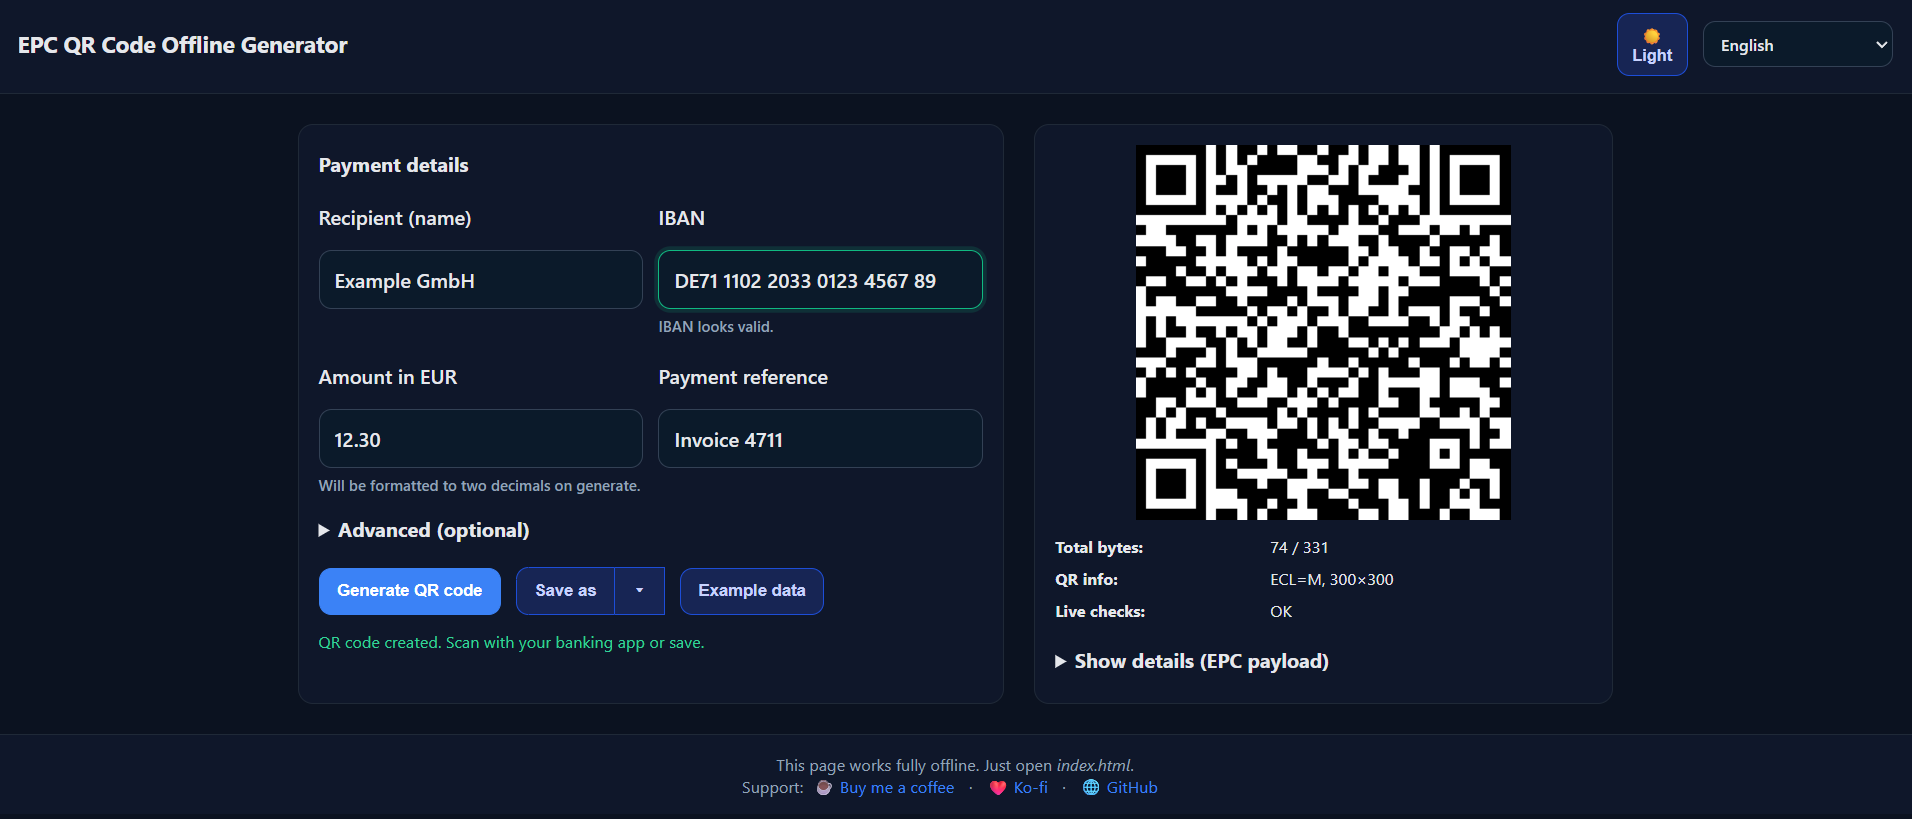
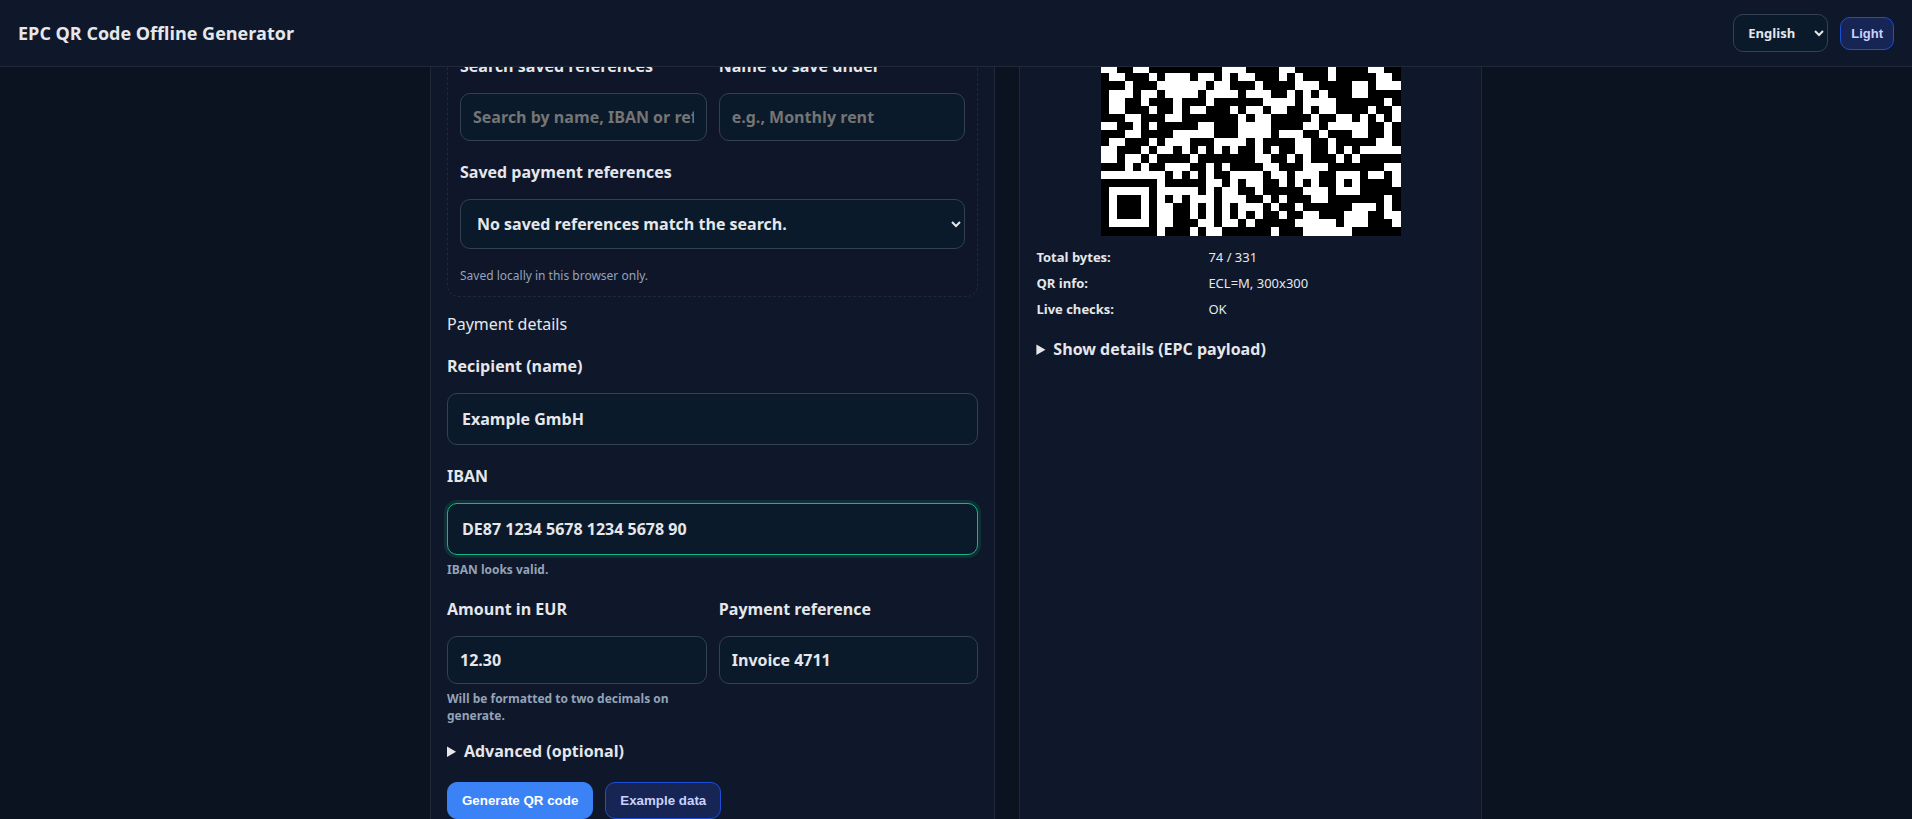
Use clearly fake DE87 1234… test IBANs in demos
Replace Wikipedia/example IBANs in placeholders, sample data, and
README screenshots with an obviously synthetic but Mod97-valid test IBAN.

diff --git a/assets/app.js b/assets/app.js
@@ -59,8 +59,8 @@ function ensureI18N(){
       tooltip_struct:"Use RF creditor reference (ISO 11649). If you set this, leave Payment reference empty.",
       tooltip_purpose:"Standard code like GDDS (goods), SALA (salary), CHAR (charity). Optional.",
       totalBytes:"Total bytes:", qrInfo:"QR info:", details:"Show details (EPC payload)", lf:"Line breaks are shown as \\n.",
-      placeholders:{ name:"e.g., Example GmbH", iban:"DE89 3704 0044 0532 0130 00", amount:"12.34", unstruct:"Invoice 4711, Customer 123", struct:"e.g., RF18XXXX", purpose:"e.g., GDDS", bic:"usually empty in EU", b2o:"optional" },
-      exdata:{ name:"Example GmbH", iban:"DE71 1102 2033 0123 4567 89", amount:"12.30", unstruct:"Invoice 4711", struct:"", purpose:"", bic:"", b2o:"" },
+      placeholders:{ name:"e.g., Example GmbH", iban:"DE87 1234 5678 1234 5678 90", amount:"12.34", unstruct:"Invoice 4711, Customer 123", struct:"e.g., RF18XXXX", purpose:"e.g., GDDS", bic:"usually empty in EU", b2o:"optional" },
+      exdata:{ name:"Example GmbH", iban:"DE87 1234 5678 1234 5678 90", amount:"12.30", unstruct:"Invoice 4711", struct:"", purpose:"", bic:"", b2o:"" },
       status_ok:"QR code created. Scan with your banking app.", status_prefill:"Example data filled. Click 'Generate QR code'.",
       err_name:"Recipient is required.", err_iban:"IBAN is invalid.", err_purpose:"Purpose code must be 1-4 alphanumeric characters.", err_bic:"Invalid BIC format.", err_amount_min:"Invalid amount: at least 0.01 EUR.",
       err_len:(b)=>`Text too long: payload exceeds 331 bytes (${b}). Please shorten.`, err_qrlib:"QR library not loaded. Ensure assets/qrcode.min.js exists and is loaded before app.js.",

diff --git a/index.html b/index.html
@@ -127,7 +127,7 @@
 
         <label id="l_iban">
           <div class="label-row"><span class="title">IBAN</span></div>
-          <input id="iban" maxlength="42" placeholder="DE89 3704 0044 0532 0130 00"
+          <input id="iban" maxlength="42" placeholder="DE87 1234 5678 1234 5678 90"
                  pattern="^[A-Z]{2}[0-9]{2}[A-Z0-9 ]{0,30}$" title="Starts with country code + 2 digits; letters/digits, spaces allowed"
                  autocapitalize="characters" inputmode="text" aria-describedby="ibanHint" />
           <span class="hint" id="ibanHint"></span>

diff --git a/assets/i18n-core.js b/assets/i18n-core.js
@@ -64,7 +64,7 @@ window.I18N = {
 
     placeholders: {
       name: "e.g., Example GmbH",
-      iban: "DE89 3704 0044 0532 0130 00",
+      iban: "DE87 1234 5678 1234 5678 90",
       amount: "12.34",
       unstruct: "Invoice 4711, Customer 123",
       struct: "e.g., RF18XXXX",
@@ -74,7 +74,7 @@ window.I18N = {
     },
     exdata: {
       name: "Example GmbH",
-      iban: "DE71 1102 2033 0123 4567 89",
+      iban: "DE87 1234 5678 1234 5678 90",
       amount: "12.30",
       unstruct: "Invoice 4711",
       struct: "",

diff --git a/assets/i18n/de.js b/assets/i18n/de.js
@@ -62,7 +62,7 @@ window.I18N.de = {
 
   placeholders: {
     name: "z. B. Beispiel GmbH",
-    iban: "DE89 3704 0044 0532 0130 00",
+    iban: "DE87 1234 5678 1234 5678 90",
     amount: "12,34",
     unstruct: "Rechnung 4711, Kunde 123",
     struct: "z. B. RF18…",
@@ -72,7 +72,7 @@ window.I18N.de = {
   },
   exdata: {
     name: "Beispiel GmbH",
-    iban: "DE71 1102 2033 0123 4567 89",
+    iban: "DE87 1234 5678 1234 5678 90",
     amount: "12,30",
     unstruct: "Rechnung 4711",
     struct: "",
